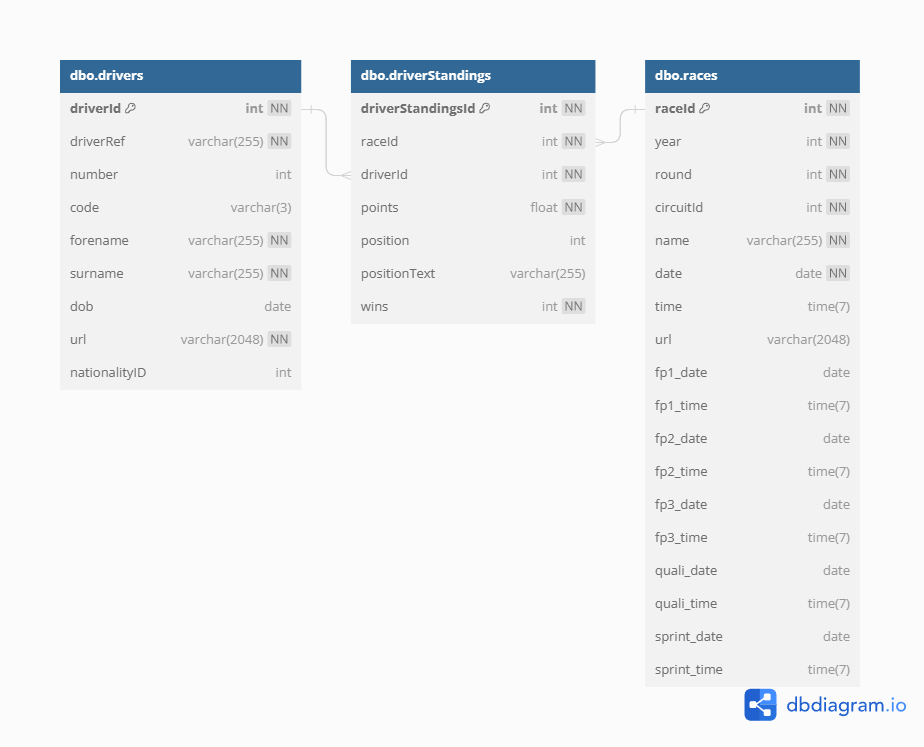
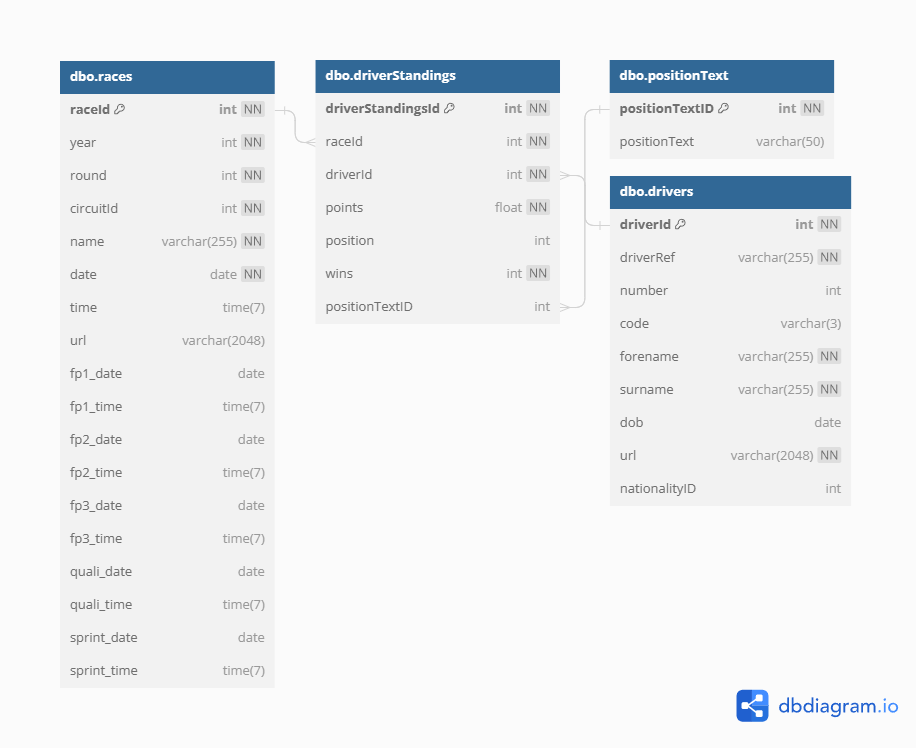
Position Text
Updated the schema documentation to remove the position text and replace it with position text ID

diff --git a/docs/tables/driverStandings.md b/docs/tables/driverStandings.md
@@ -13,7 +13,7 @@ title: Driver Standings
 | **driverId** | FK_DriverStandings_DriverID (dbo.drivers driverId) | INT | ☐ | 0 | Foreign key link to drivers table | 
 | **points** |  | FLOAT | ☐ | 0 | Driver points for season | 
 | **position** |  | INT | ☑ |  | Driver standings position (integer) | 
-| **positionText** |  | VARCHAR(255) | ☑ |  |  | 
+| **positionTextID** |  | INT | ☑ |  | Foreign key link to position text | 
 | **wins** |  | INT | ☐ | 0 | Driver standings position (string) | 
 
 ### Table Relationships
